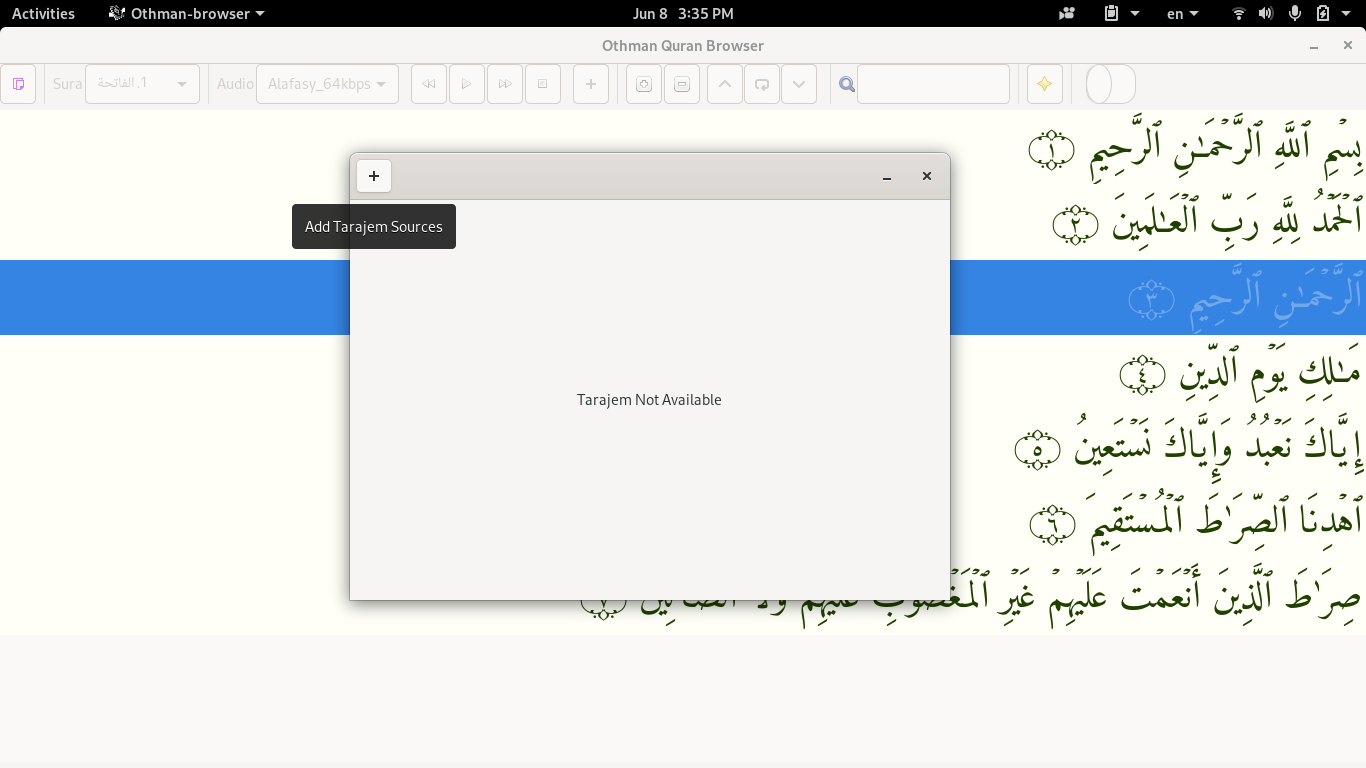
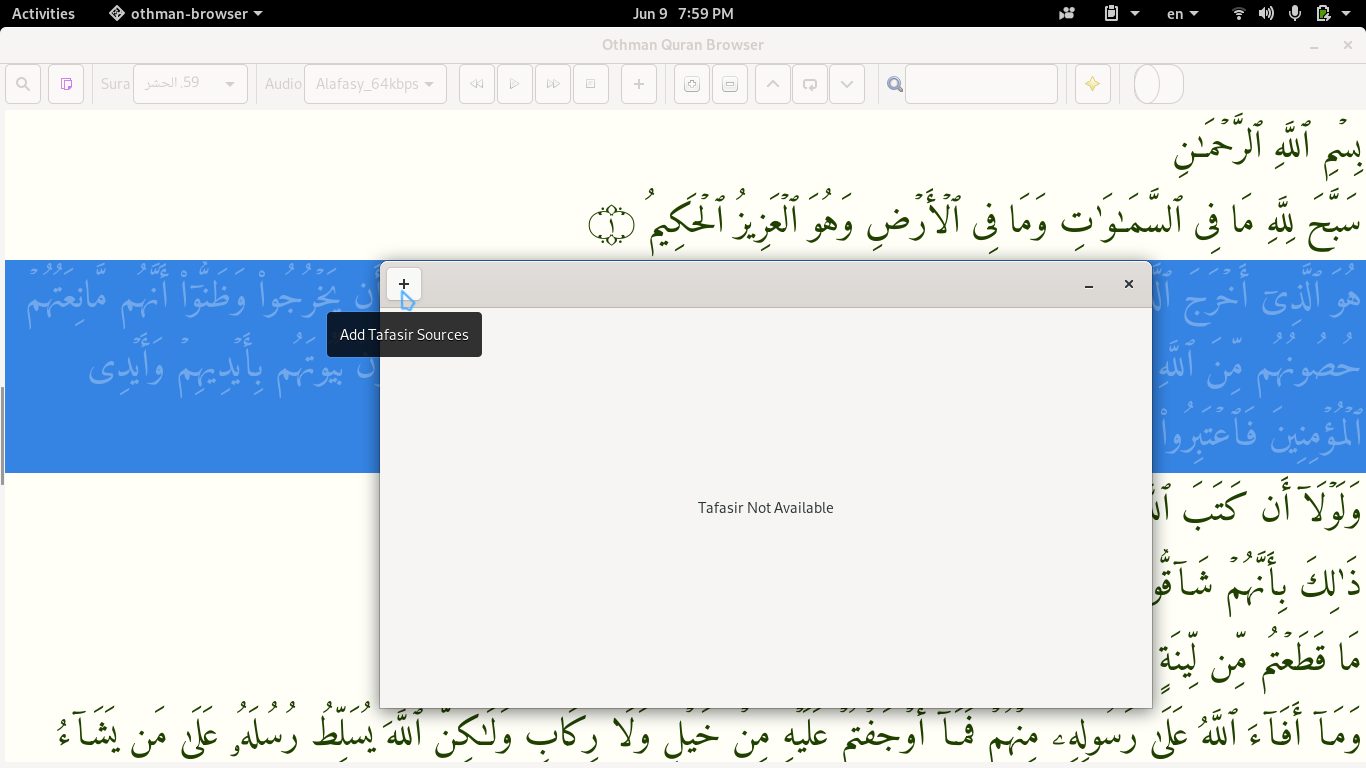
update

diff --git a/othman/gtkUi.py b/othman/gtkUi.py
@@ -370,7 +370,7 @@ class ShowTarajemTafasir(Gtk.Window):
                 self.revealer.set_transition_type(Gtk.RevealerTransitionType.SLIDE_LEFT)
             
                 self.__old_search_text = ""
-                self.search_entry = Gtk.SearchEntry(placeholder_text="Search...")
+                self.search_entry = Gtk.SearchEntry(placeholder_text=_("Search..."))
                 self.search_entry.props.margin_start  = 15
                 self.search_entry.props.margin_end    = 15
                 self.search_entry.props.margin_top    = 5
@@ -464,30 +464,11 @@ class ShowTarajemTafasir(Gtk.Window):
             sw2=Gtk.ScrolledWindow()
             sw2.set_policy(Gtk.PolicyType.AUTOMATIC,Gtk.PolicyType.AUTOMATIC)
             
-            sw1.set_size_request (150, 1)
+            sw1.set_size_request(150, 1)
         
             paned = Gtk.Paned()
             paned.props.wide_handle = True
             self.maincontainer.pack_start(paned,True,True,0)
-            css = b"""paned separator.wide {
-
-                        background-image: linear-gradient(to left, transparent, transparent 1px, #999 1px, #999 4px, transparent 4px);
-                        background-size: 100% 15%;
-                        background-repeat: no-repeat;
-                        background-position: center center;
-                    }
-
-                    paned separator.wide:hover {
-                        background-image: linear-gradient(to left, transparent, transparent 1px, #555 1px, #555 4px, transparent 4px);
-                    }
-                    paned separator.wide:active {
-                        background-image: linear-gradient(to left, transparent, transparent 100px, #555 111px, #555 114px, transparent 114px);
-                    }
-                """
-            style_provider = Gtk.CssProvider()
-            style_provider.load_from_data(css)
-            Gtk.StyleContext.add_provider_for_screen(Gdk.Screen.get_default(), style_provider, Gtk.STYLE_PROVIDER_PRIORITY_APPLICATION)
-            
             self.listbox_ = Gtk.ListBox()
             sw1.add(self.listbox_)
             paned.add1(sw1)
@@ -811,31 +792,7 @@ class AddData(Gtk.Window):
         self.__files = []
         self.msg = msg
         self.set_position(Gtk.WindowPosition.CENTER_ON_PARENT )
-        css = b"""
-                .h1 {
-                    font-size: 24px;
-                }
-                .h2 {
-                    font-weight: 300;
-                    font-size: 18px;
-                }
-                .h3 {
-                    font-size: 11px;
-                }
-                .h4 {
-                    color: alpha (@text_color, 0.7);
-                    font-weight: bold;
-                    text-shadow: 0 1px @text_shadow_color;
-                }
-                .h4 {
-                    padding-bottom: 6px;
-                    padding-top: 6px;
-                }
-                """
-        style_provider = Gtk.CssProvider()
-        style_provider.load_from_data(css)
-        Gtk.StyleContext.add_provider_for_screen(Gdk.Screen.get_default(), style_provider, Gtk.STYLE_PROVIDER_PRIORITY_APPLICATION)
-        
+
         self.connect('delete-event', self._on_cancel_button_clicked)
         self.last_txt = None
         self.set_type_hint(Gdk.WindowTypeHint.UTILITY)
@@ -1072,9 +1029,44 @@ class othmanUi(Gtk.Window, othmanCore):
         os.makedirs(self.tafasir_data_location,exist_ok=True)
  
         
-        #style_provider = Gtk.CssProvider()
-        #style_provider.load_from_data(css)
-        #Gtk.StyleContext.add_provider_for_screen(Gdk.Screen.get_default(), style_provider, Gtk.STYLE_PROVIDER_PRIORITY_APPLICATION)
+        css = b"""
+                .h1 {
+                    font-size: 24px;
+                }
+                .h2 {
+                    font-weight: 300;
+                    font-size: 18px;
+                }
+                .h3 {
+                    font-size: 11px;
+                }
+                .h4 {
+                    color: alpha (@text_color, 0.7);
+                    font-weight: bold;
+                    text-shadow: 0 1px @text_shadow_color;
+                }
+                .h4 {
+                    padding-bottom: 6px;
+                    padding-top: 6px;
+                }
+                paned separator.wide {
+
+                    background-image: linear-gradient(to left, transparent, transparent 1px, #999 1px, #999 4px, transparent 4px);
+                    background-size: 100% 15%;
+                    background-repeat: no-repeat;
+                    background-position: center center;
+                }
+                paned separator.wide:hover {
+                    background-image: linear-gradient(to left, transparent, transparent 1px, #555 1px, #555 4px, transparent 4px);
+                }
+                paned separator.wide:active {
+                    background-image: linear-gradient(to left, transparent, transparent 100px, #555 111px, #555 114px, transparent 114px);
+                }
+                """
+
+        style_provider = Gtk.CssProvider()
+        style_provider.load_from_data(css)
+        Gtk.StyleContext.add_provider_for_screen(Gdk.Screen.get_default(), style_provider, Gtk.STYLE_PROVIDER_PRIORITY_APPLICATION)
         
         if  sys.platform.startswith('win'):
             if not check_amiri_font(self):
@@ -1105,12 +1097,47 @@ class othmanUi(Gtk.Window, othmanCore):
         self.add(vb)
         hb = Gtk.HBox(False,2)
         vb.pack_start(hb, False, False, 0)
+        
+        self.scroll2 = Gtk.ScrolledWindow()
+        self.scroll2.set_policy(Gtk.PolicyType.NEVER, Gtk.PolicyType.ALWAYS)
+        self.scroll2.connect_after("size-allocate", self.resize_cb)
 
-        self.scroll = Gtk.ScrolledWindow()
-        self.scroll.set_policy(Gtk.PolicyType.NEVER, Gtk.PolicyType.ALWAYS)
-        self.scroll.connect_after("size-allocate", self.resize_cb)
-        vb.pack_start(self.scroll, True, True, 6)
+        self.scroll1 = Gtk.ScrolledWindow()
+        self.scroll1.set_policy(Gtk.PolicyType.NEVER, Gtk.PolicyType.ALWAYS)
+        self.scroll1.set_size_request (150, 1)
 
+        hb_search_entry   = Gtk.Grid()
+        self.search_entry = Gtk.SearchEntry(placeholder_text= _("Search..."))
+        self.search_entry.props.margin_start  = 15
+        self.search_entry.props.margin_end    = 15
+        self.search_entry.props.margin_top    = 5
+        self.search_entry.props.margin_bottom = 5
+        self.search_entry.props.max_length    = 30
+        hb_search_entry.add(self.search_entry)
+                
+        overl           = Gtk.Overlay()
+        self.listbox_vb = Gtk.VBox()
+        self.listbox_   = Gtk.ListBox()
+        self.listbox_vb.pack_start(hb_search_entry,False,False,0)
+        self.listbox_vb.pack_start(self.scroll1,True,True,0)
+        self.scroll1.add(self.listbox_)
+
+        
+        self.paned     = Gtk.Paned()
+        self.paned.props.position    = 0
+        self.paned.props.wide_handle = True
+        self.paned.add1(self.listbox_vb)
+        self.paned.add2(self.scroll2)
+        vb.pack_start(self.paned, True, True, 6)
+        
+
+        img = Gtk.Image.new_from_icon_name("system-search-symbolic", Gtk.IconSize.BUTTON)
+        self.search_b = Gtk.ToggleButton()
+        self.search_b.set_tooltip_text(_("Search For Sura"))
+        self.search_b.add(img)
+        self.search_b.connect("toggled", self._on_search_button_toggled)
+        hb.pack_start(self.search_b ,False, False, 5)
+        
         img = Gtk.Image()
         img.set_from_stock(Gtk.STOCK_COPY, Gtk.IconSize.BUTTON)
         self.cp_b = Gtk.Button()
@@ -1126,9 +1153,21 @@ class othmanUi(Gtk.Window, othmanCore):
         self.sura_c.set_wrap_width(5)
         for i in self.sura_ls:
             self.sura_c.append_text(i)
+            category_label = Gtk.Label()
+            category_label.set_label(i)
+            row_ = Gtk.ListBoxRow()
+            row_.props.activatable = True
+            row_.props.selectable = True
+            row_.add(category_label)
+            self.listbox_.add(row_)
+        
+
         self.sura_c.set_tooltip_text(_("choose a Sura"))
-        self.sura_c.connect("changed", self.sura_changed_cb)
+        self.sura_c_handler = self.sura_c.connect("changed", self.sura_changed_cb)
         hb.pack_start(self.sura_c, False, False, 0)
+        self.listbox_.set_filter_func(self._listbox_filter_func,self.search_entry)
+        self.search_entry_handler  = self.search_entry.connect("search-changed", self._on_search,self.listbox_)
+        self.listbox__handler = self.listbox_.connect("row-selected",self.on_selected_row)
 
 
         ##############################################################
@@ -1327,7 +1366,7 @@ class othmanUi(Gtk.Window, othmanCore):
         for i in self.cols:
             self.txt_list.insert_column(i, -1)
 
-        self.scroll.add(self.txt_list)
+        self.scroll2.add(self.txt_list)
         
         ##################################################################
         last_sura_aya = self.get_last_sura_aya()
@@ -1338,19 +1377,22 @@ class othmanUi(Gtk.Window, othmanCore):
             __aya  = last_sura_aya[1]
             if __sura in (0,8):
                 self.sura_c.set_active(__sura)
+                self.listbox_.select_row(self.listbox_.get_row_at_index(__sura))
                 self.txt_list.get_selection().select_path((__aya-1,))
                 self.txt_list.scroll_to_cell(__aya-1,self.cols[0])
                 #self.txt_list.row_activated(Gtk.TreePath.new_from_indices([__aya]),self.cols[0])
             else:
                 self.sura_c.set_active(__sura)
+                self.listbox_.select_row(self.listbox_.get_row_at_index(__sura))
                 self.txt_list.get_selection().select_path((__aya,))
                 self.txt_list.scroll_to_cell(__aya,self.cols[0])
                 #self.txt_list.row_activated(Gtk.TreePath.new_from_indices([__aya]),self.cols[0])
         else:
             self.sura_c.set_active(0)
+            self.listbox_.select_row(self.listbox_.get_row_at_index(0))
             self.txt_list.get_selection().select_path((0,))
             #self.txt_list.row_activated(Gtk.TreePath.new_from_indices([0]),self.cols[0])
-
+    
         self.menu = Gtk.Menu()
         self.menu.set_screen(Gdk.Screen().get_default())
         
@@ -1384,7 +1426,44 @@ class othmanUi(Gtk.Window, othmanCore):
         self.connect("key-press-event", self._on_key_press)
         #self.txt_list.connect("row_activated",self.on_row_activated)
         #self.txt_list.connect("cursor_changed",self.on_cursor_changed)
+        self.scroll1.get_vadjustment().set_value((self.scroll1.get_vadjustment().get_upper()/114)*self.sura_c.get_active())
 
+    def _on_search_button_toggled(self,button):
+        if button.get_active():
+            self.paned.props.position = 200
+        else:
+            self.paned.props.position = 0
+
+    def on_selected_row(self, listbox,listboxrow):
+        with GObject.Object.handler_block(self.sura_c,self.sura_c_handler):
+            index_ = listboxrow.get_index()
+            self.sura_c.set_active(index_)
+            self.viewSura(self.sura_c.get_active() + 1)
+            self._stop_audio()
+            self.tb.set_active(False)
+            t_ = self.search_entry.get_text()
+            self.queue_draw()
+            #while Gtk.events_pending():
+            #    Gtk.main_iteration()
+            if t_ :
+                self.search_entry.set_text("")
+                while Gtk.events_pending():
+                    Gtk.main_iteration()
+                self.scroll1.get_vadjustment().set_value((self.scroll1.get_vadjustment().get_upper()/114)*index_)
+
+        
+    def _listbox_filter_func(self, listbox,entry):
+        text = entry.get_text()
+        if not text:
+            return listbox
+        lbl = listbox.get_child().props.label
+        if text.lower() in lbl.lower():
+            return listbox 
+            
+            
+    def _on_search(self, entry,listbox):
+        listbox.invalidate_filter()
+        
     def on_color_menu(self,button,color_button):
         color_button.emit("clicked")
     
@@ -1774,7 +1853,7 @@ class othmanUi(Gtk.Window, othmanCore):
             self.__can_play = True
             self.scroll_delay = 200
             return True
-        v = self.scroll.get_vadjustment()
+        v = self.scroll2.get_vadjustment()
         m = v.get_upper() - v.get_page_size()
         n = min(m, v.get_value() + 2 )
         if n == m:
@@ -1803,6 +1882,7 @@ class othmanUi(Gtk.Window, othmanCore):
         self.queue_draw()
         self.viewSura(sura)
         self.viewAya(aya)
+        self.search_b.set_active(False)
 
     def zoomOut(self, *a):
         sura, aya = self.getCurrentSuraAya()
@@ -1813,6 +1893,7 @@ class othmanUi(Gtk.Window, othmanCore):
         self.queue_draw()
         self.viewSura(sura)
         self.viewAya(aya)
+        self.search_b.set_active(False)
 
     def viewAya(self, aya, sura = None):
         if sura == None:
@@ -1832,14 +1913,17 @@ class othmanUi(Gtk.Window, othmanCore):
         for j, k in enumerate(self.getSuraIter(i)):
             self.txt.append([k[0], j + 1, "#204000",])
         self.resize_cb()
-        self.scroll.get_vadjustment().set_value(0)
+        self.scroll2.get_vadjustment().set_value(0)
         self.txt_list.get_selection().select_path((0,))
-
+        
 
     def sura_changed_cb(self, c, *a):
         self.viewSura(self.sura_c.get_active() + 1)
         self._stop_audio()
         self.tb.set_active(False)
+        with GObject.Object.handler_block(self.listbox_,self.listbox__handler):
+            self.listbox_.select_row(self.listbox_.get_row_at_index(self.sura_c.get_active()))
+            self.scroll1.get_vadjustment().set_value((self.scroll1.get_vadjustment().get_upper()/114)*self.sura_c.get_active())
 
     def resize_cb(self,*args):
         if self.cols[0].get_width() > 10:

diff --git a/README.md b/README.md
@@ -44,6 +44,7 @@ https://github.com/ojuba-org/othman
 clone repository and run othman-browser (requires pygi and gstreamer(to run mp3 tilawa))
 
 # Screenshot
+![Alt text](https://raw.githubusercontent.com/yucefsourani/unofficial-othman-electronic-quran-browser/master/Screenshot1.png "Screenshot")
 
 ![Alt text](https://raw.githubusercontent.com/yucefsourani/unofficial-othman-electronic-quran-browser/master/Screenshot2.png "Screenshot")
 
@@ -55,9 +56,9 @@ clone repository and run othman-browser (requires pygi and gstreamer(to run mp3 
 
 ![Alt text](https://raw.githubusercontent.com/yucefsourani/unofficial-othman-electronic-quran-browser/master/Screenshot6.png "Screenshot")
 
-![Alt text](https://raw.githubusercontent.com/yucefsourani/unofficial-othman-electronic-quran-browser/master/Capture6.JPG "Screenshot")
+![Alt text](https://raw.githubusercontent.com/yucefsourani/unofficial-othman-electronic-quran-browser/master/Screenshot7.png "Screenshot")
 
-![Alt text](https://raw.githubusercontent.com/yucefsourani/unofficial-othman-electronic-quran-browser/master/Capture7.JPG "Screenshot")
+
 
 
 
